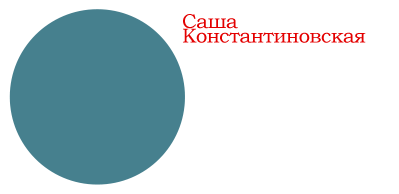
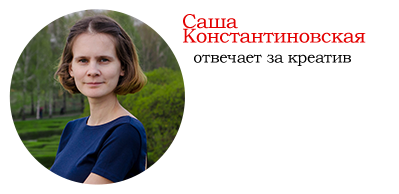
added pictures

diff --git a/index.html b/index.html
@@ -39,34 +39,31 @@
             <div class="who-we-are__title"><span class="first-word">Who</span> we are</div>
             <div id="owl-demo" class="owl-carousel owl-theme">
                   <div class="item">
-                     <img src="img/Constantinovskaya.png" alt="Алекстандра Константиновская"> 
+                     <img src="img/Aleksandra.jpg" alt="Алекстандра Константиновская"> 
                   </div>
                   <div class="item">
-                     <img src="" alt="">   
+                     <img src="img/Julia.jpg" alt="Юлия Кузнецова">   
                   </div>
                   <div class="item">
-                     <img src="" alt="">  
+                     <img src="img/Vsevolod.jpg" alt="Всеволод Колойденко">  
                   </div>
                   <div class="item">
-                     <img src="" alt="">  
+                     <img src="img/Sviatoslav.jpg" alt="Святослав Колода">  
                   </div>
                   <div class="item">
-                     <img src="" alt="">  
+                     <img src="img/Pavel.jpg" alt="Павел Лактионов">  
                   </div>
                   <div class="item">
-                     <img src="" alt="">  
+                     <img src="img/Nataly.jpg" alt="Наталья Лелеко">  
                   </div>
                   <div class="item">
-                     <img src="" alt="">  
+                     <img src="img/Sergei.jpg" alt="Сергей Лазаренко">  
                   </div>
                   <div class="item">
-                     <img src="" alt="">  
+                     <img src="img/Dmitriy.jpg" alt="Дмитрий Косолап">  
                   </div>
                   <div class="item">
-                     <img src="" alt="">  
-                  </div>
-                  <div class="item">
-                     <img src="" alt="">  
+                     <img src="img/Aleksandr.jpg" alt="Александр Транченко">  
                   </div>
             </div>
          </div>
@@ -74,6 +71,15 @@
       <div id="what" class="we_made">
          <div class="container">
             <div class="what-we-made__title"><span class="first-word">What</span> we made</div>
+            <div class="we-made__h2"></div>
+            <div class="we-made__row">
+               <div class="we-made__img-block1"><img src="img/mac.png" class="block__img"></div>  
+               <div class="we-made__img-block2"></div> 
+            </div>
+            <div class="we-made__row"> 
+               <div class="we-made__img-block3"></div> 
+               <div class="we-made__img-block4"><img src="img/7d0e8f8ebc74c8799fe04e8867dacf60.png" class="block__img"></div>  
+            </div>   
          </div>   
       </div>
       <div id="why" class="we_team">

diff --git a/css/style.css b/css/style.css
@@ -80,6 +80,7 @@ a {
    margin: 0 auto;
    border-top: 1px solid white;
    border-bottom: 1px solid white;
+   -webkit-box-sizing: border-box;
    box-sizing: border-box;
 }
 .header__h2 {
@@ -150,6 +151,65 @@ a {
    letter-spacing: -0.5px;
    color: #ffffff;
 }
+.we-made__h2 {
+   height: 54px;
+   width: 316px;
+   margin: 0 auto;
+   background: url(../img/Web---studio.png); 
+}
+.we-made__row {
+   width: 1184px;
+   height: 411px;
+   margin: 0 auto;
+}
+.we-made__img-block1 {
+   display: inline-block;
+   position: relative;
+   height: 411px;
+   width: 572px;
+   float: left;
+   margin-top: 57px;
+   background-color: #a4812d;
+   border-radius: 15px;
+   text-align: center;
+}
+.block__img {
+   position: absolute;
+   margin: auto;
+   top: 0;
+   left: 0;
+   right: 0;
+   bottom: 0;
+}
+.we-made__img-block2 {
+   display: inline-block;
+   height: 411px;
+   width: 572px;
+   float: left;
+   margin-top: 57px;
+   margin-left: 40px;
+   background: url(../img/dis2.png); 
+}
+.we-made__img-block3 {
+   display: inline-block;
+   height: 411px;
+   width: 572px;
+   float: left;
+   margin-top: 41px;
+   background: url(../img/disign.png); 
+}
+.we-made__img-block4 {
+   display: inline-block;
+   position: relative;
+   height: 411px;
+   width: 572px;
+   float: left;
+   margin-top: 41px;
+   margin-left: 40px;
+   background-color: #a4812d;
+   border-radius: 15px;
+   text-align: center;
+}
 
 /* WE TEAM */
 
@@ -187,7 +247,7 @@ a {
    position: absolute;
    height: 194px;
    width: 398px;
-   background: url(../img/3_person.png); 
+   background: url(../img/2_person.png);
    top: 385px;
    left: -50px;
 }
@@ -195,7 +255,7 @@ a {
    height: 194px;
    width: 399px;   
    position: absolute;
-   background: url(../img/2_person.png);
+   background: url(../img/3_person.png); 
    top: 150px;
    left: 280px;
 }
@@ -203,7 +263,7 @@ a {
    position: absolute;
    height: 194px;
    width: 399px;
-   background: url(../img/4_person.png);
+   background: url(../img/4_person.png); 
    top: -70px;
    left: 600px;
 }
@@ -211,7 +271,7 @@ a {
    position: absolute;
    height: 194px;
    width: 399px;
-   background: url(../img/5_person.png); 
+   background: url(../img/5_person.png);  
    top: 150px;
    left: 885px;
 }
@@ -251,7 +311,7 @@ a {
    position: absolute;
    height: 194px;
    width: 398px;
-   background: url(../img/10_person.png);
+   background: url(../img/10_person.png); 
    left: -50px;
    top: 815px;
 }
